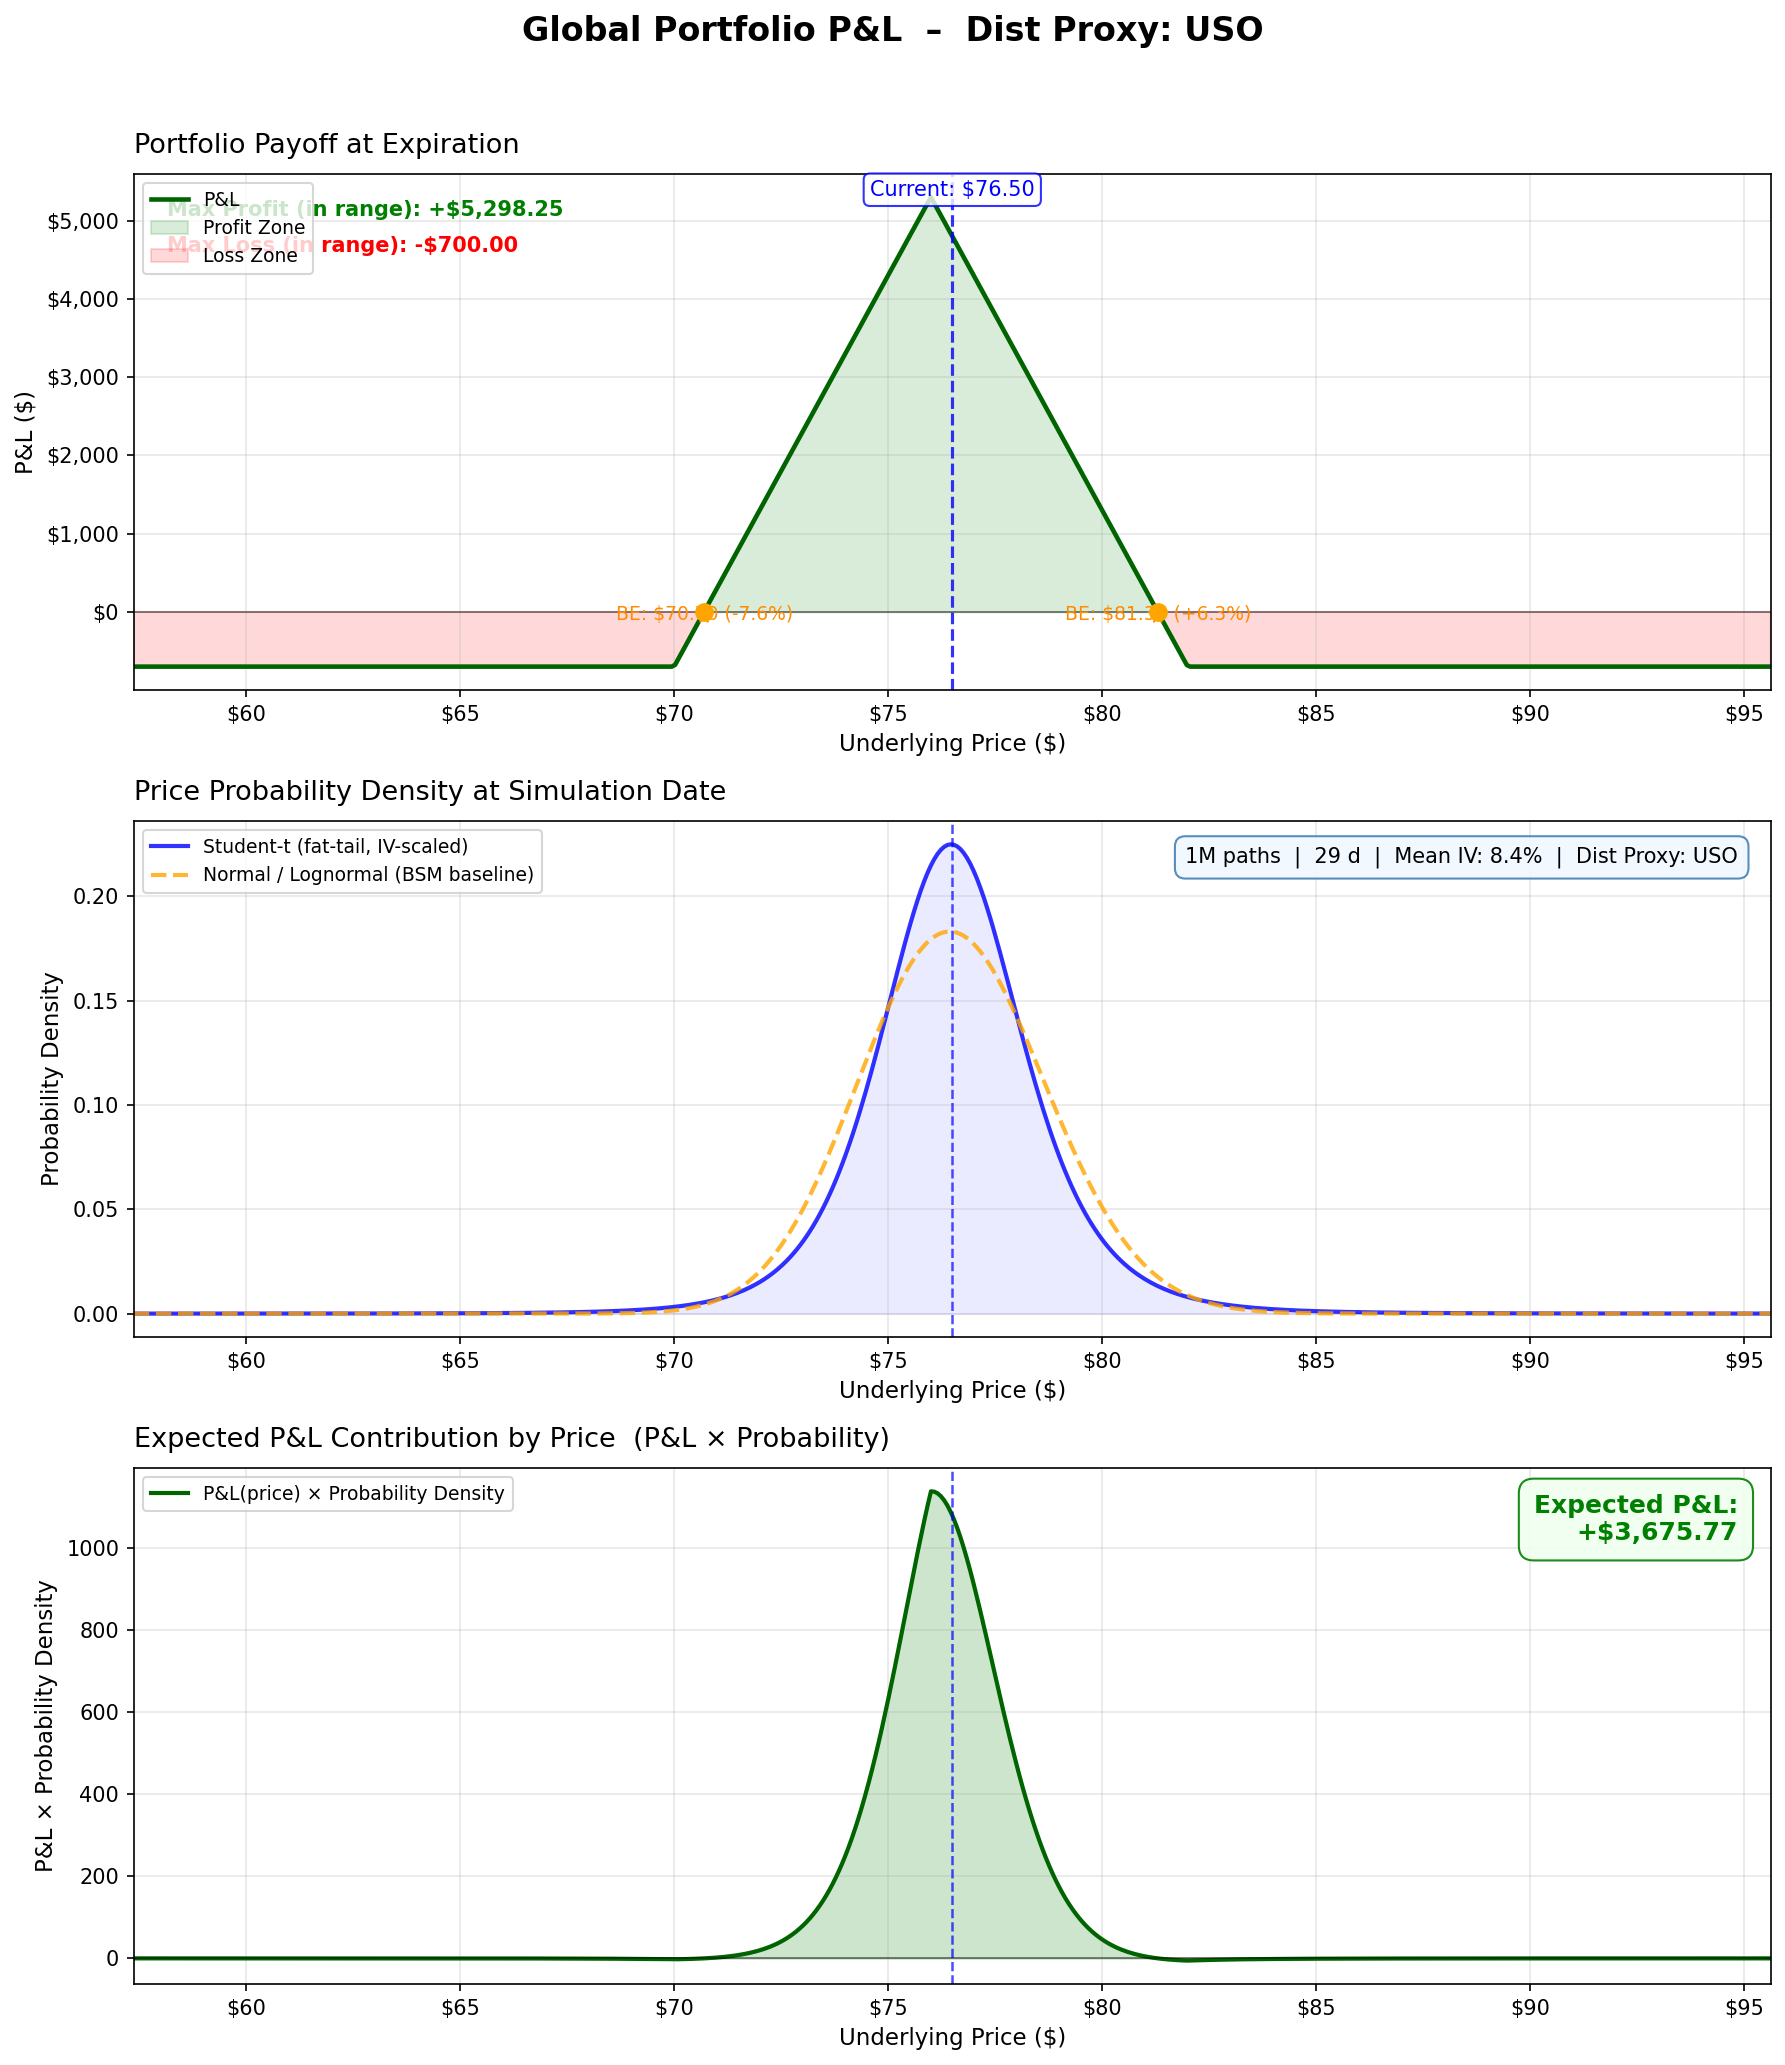
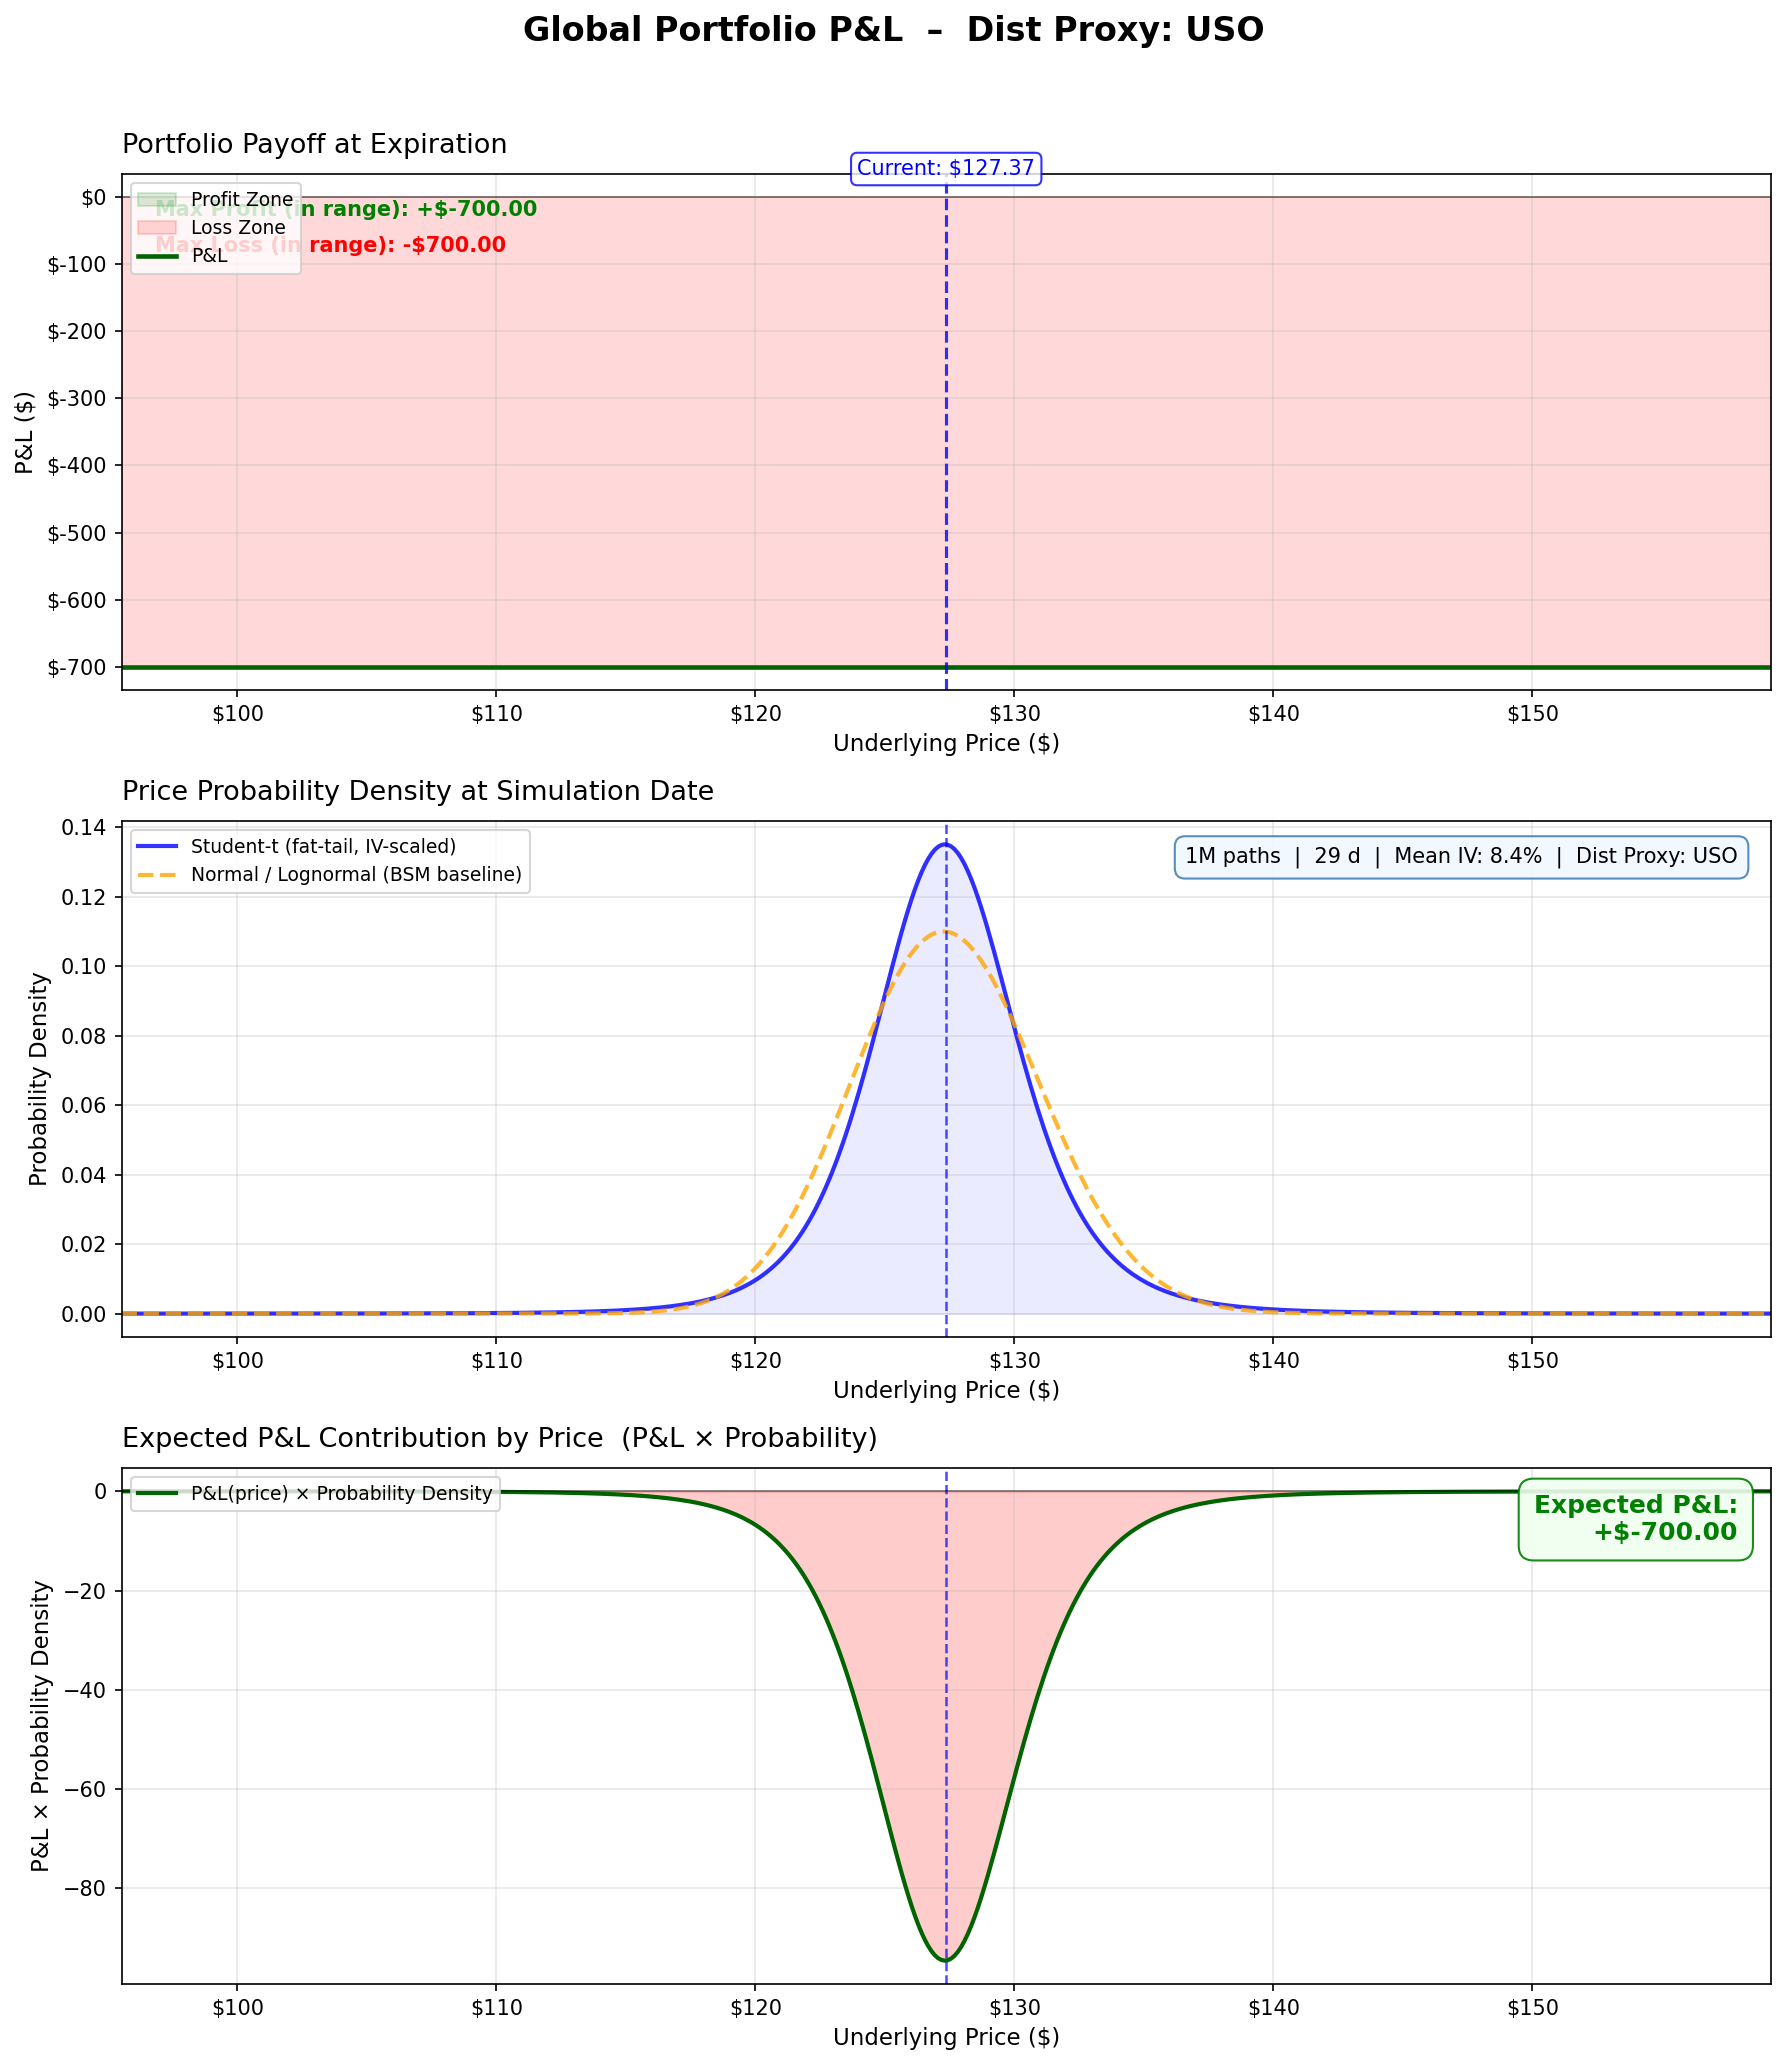
checked probability t-distribution fir

diff --git a/src/generate_uso_plot.py b/src/generate_uso_plot.py
@@ -37,6 +37,26 @@ PORTFOLIO_LEGS = [
 # DATA FETCHING
 # =============================================================================
 
+def _extract_current_price(data):
+    """Return the most recent closing price as a float."""
+    return float(data['Close'].values.flatten()[-1])
+
+
+def _extract_historical_prices(data):
+    """Return all historical closing prices as a flat numpy array."""
+    return data['Close'].values.flatten()
+
+
+def _compute_annualized_volatility(daily_returns):
+    """Annualize the standard deviation of daily log returns."""
+    return float(np.std(daily_returns) * np.sqrt(252))
+
+
+def _compute_log_returns(hist_prices):
+    """Compute daily log returns from a series of prices."""
+    return np.diff(np.log(hist_prices))
+
+
 def fetch_ticker_data(ticker: str):
     """Download historical price data for the given ticker.
 
@@ -47,15 +67,16 @@ def fetch_ticker_data(ticker: str):
         data = yf.download(ticker, period="1y", progress=False)
         print(data)
         if not data.empty:
-            current_price = float(data['Close'].values.flatten()[-1])
-            hist_prices = data['Close'].values.flatten()
-            returns = np.diff(np.log(hist_prices))
-            realized_vol = float(np.std(returns) * np.sqrt(252))
+            current_price = _extract_current_price(data)
+            hist_prices = _extract_historical_prices(data)
+            returns = _compute_log_returns(hist_prices)
+            realized_vol = _compute_annualized_volatility(returns)
             print(f"  (live data from Yahoo Finance)")
             return current_price, realized_vol, hist_prices
     except Exception as exc:
         print(f"  Live download failed: {exc}")
         raise
+
 
 # =============================================================================
 # PROBABILITY DISTRIBUTIONS
@@ -337,12 +358,14 @@ def main():
     print(f"  Realized vol:  {realized_vol*100:.1f}%")
 
     # # 2. Build probability distributions
-    # prices, student_t_density, normal_density = build_distributions(
-    #     current_price, SIMULATION_DAYS, MEAN_IV,
-    #     n_points=N_PRICE_POINTS, range_pct=PRICE_RANGE_PCT
-    # )
+    prices, student_t_density, normal_density = build_distributions(
+        current_price, SIMULATION_DAYS, MEAN_IV,
+        n_points=N_PRICE_POINTS, range_pct=PRICE_RANGE_PCT
+    )
+    print(f"  Price range: ${prices[0]:,.2f} - ${prices[-1]:,.2f}")
+    print(f"  Price points: {len(prices)}")
 
-    # # 3. Compute portfolio P&L
+    # 3. Compute portfolio P&L
     # pnls = compute_payoff_curve(prices, PORTFOLIO_LEGS)
     # breakevens = find_breakevens(prices, pnls)
     # max_profit, max_loss = find_max_profit_loss_in_range(prices, pnls)

diff --git a/README.md b/README.md
@@ -1,0 +1,5 @@
+# TODO
+
+## generate_uso_plot.py
+
+- [ ] Use full BSM/Black-76 path pricing for expected P&L, not just expiration payoff
